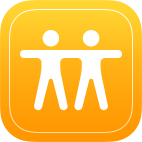
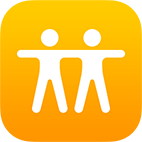
更新了 Find Friends 图标

diff --git a/README.md b/README.md
@@ -6,6 +6,8 @@
 
 ## 更新历史
 
+- 2.3 更新了 Find Friends 图标 [2016-09-23]
+- 2.2 更新了 notes 的链接 [2016-02-19]
 - 2.1 增加 Find Friends 应用，去除了 beta 角标 [2015-10-30]
 - 2.0.1 修改样式小问题 [2015-08-05]
 - 2.0 国际化，支持11种语言：英、法、德、意、俄、荷、西、日、韩、简中、繁中 [2015-08-05]
